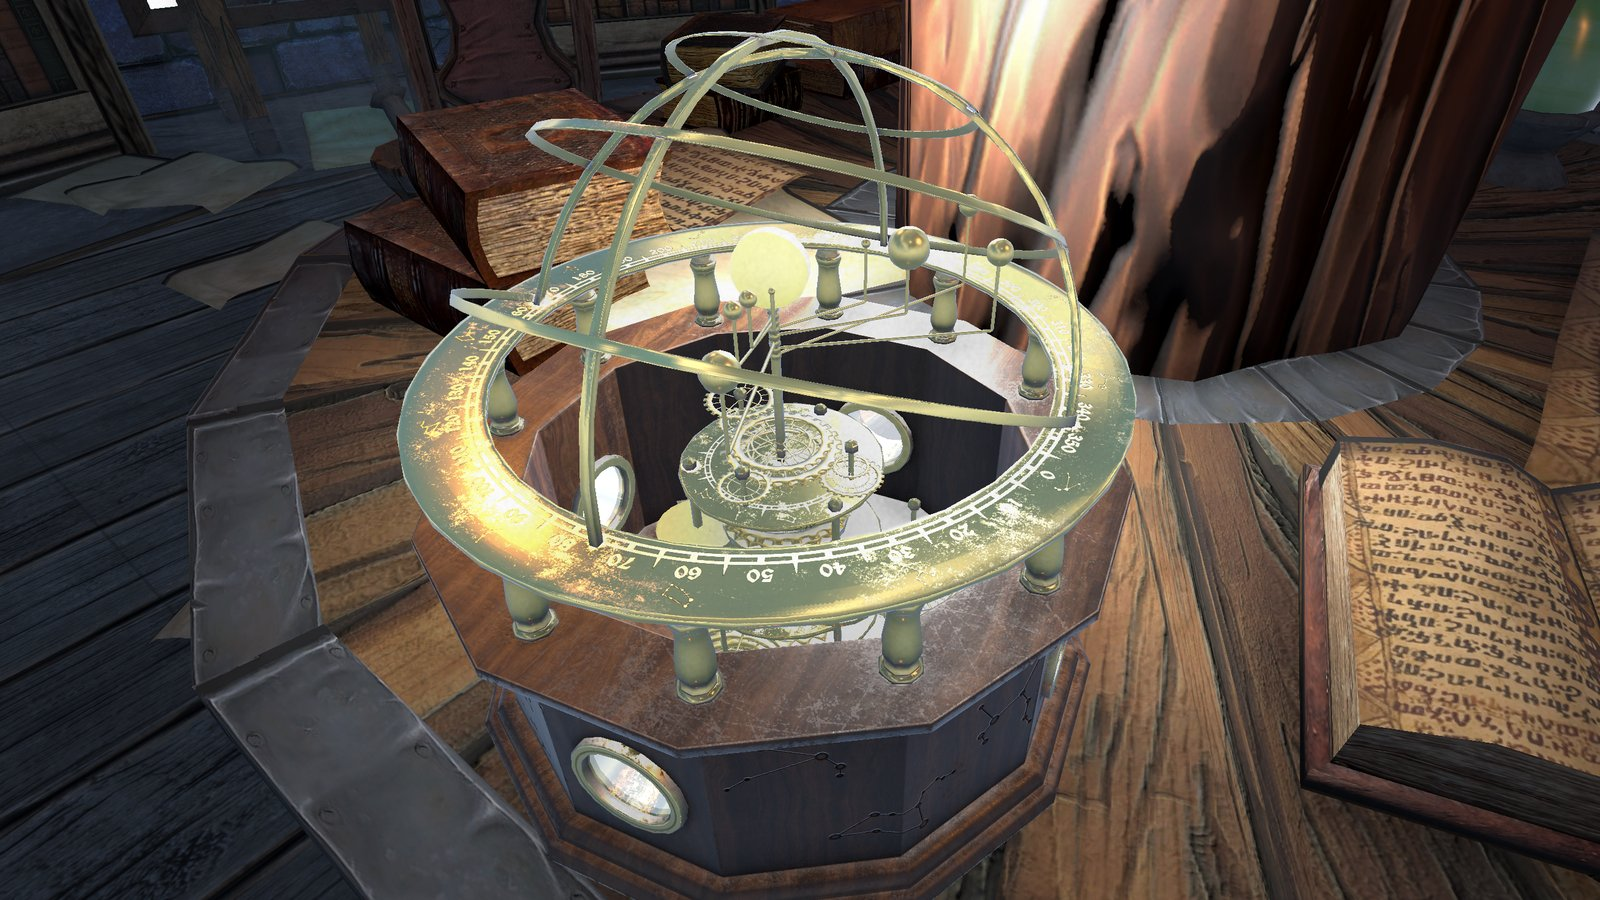
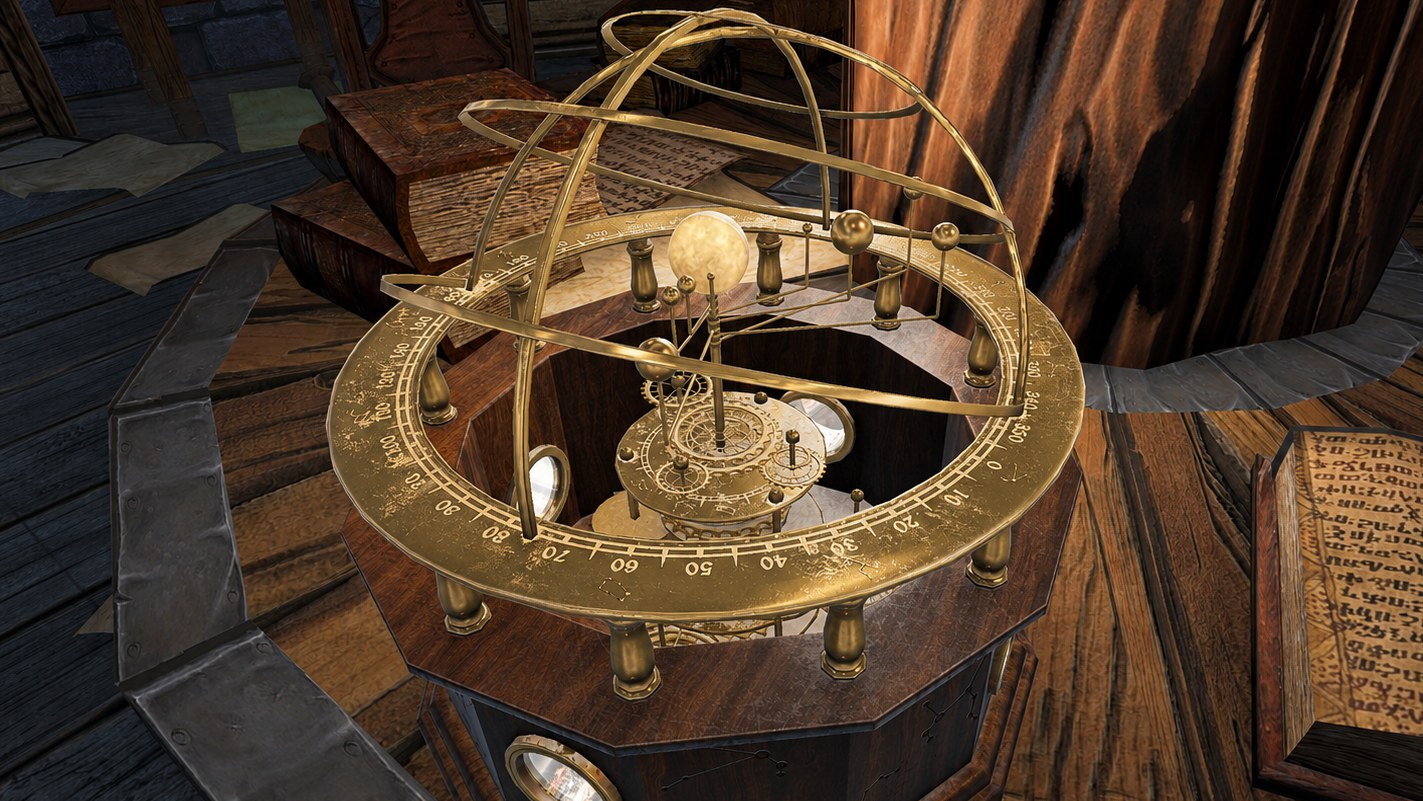
Use retouched 'Orrery Balanced' image for the orrery scene

diff --git a/index.html b/index.html
@@ -140,7 +140,7 @@
 					</figcaption>
 				</figure>
 				<figure class="cinematic-card" data-reveal>
-					<img src="images/still-orrery.jpg?v=2" alt="A brass orrery, an ornate clockwork model of the heavens, on a constellation-marked stand beside old spell books in a wizard's study" loading="lazy">
+					<img src="images/still-orrery.jpg?v=3" alt="A brass orrery, an ornate clockwork model of the heavens, on a constellation-marked stand beside old spell books in a wizard's study" loading="lazy">
 					<figcaption>
 						<strong>The Magic Orrery</strong>
 						<span>Use it to change the time of day or season</span>
